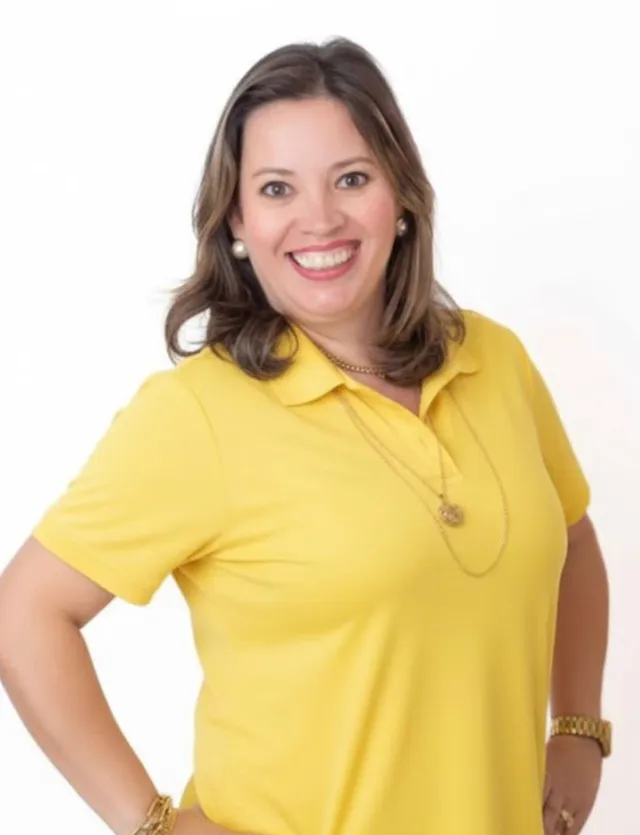
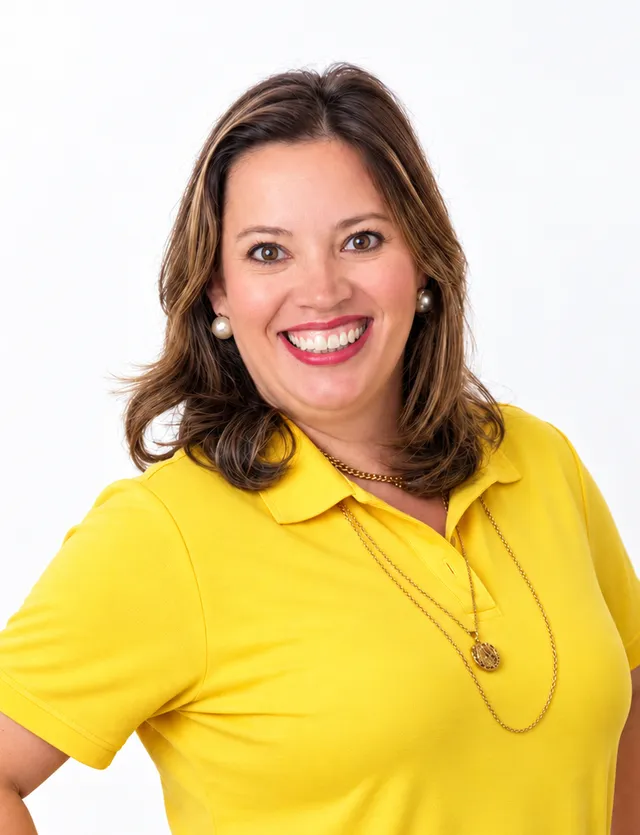
Delina Sampaio: retrato tratado, recortado do busto para cima

diff --git a/src/content/executives.ts b/src/content/executives.ts
@@ -36,7 +36,8 @@ export const sabrinaFerreira: Executive = {
   verificationStatus: 'source-supplied',
 };
 
-/** Fotos: assets/executives/Delina-sampaio (880 × 1223, recortada para 800 × 1044). */
+/** Foto: assets/executives/Delina-sampaio, retrato tratado por Nil em 26/10 (1064 × 1478),
+ * recortado do busto para cima (780 × 1018). */
 export const delinaSampaio: Executive = {
   id: 'delina-sampaio',
   firstName: 'Delina',
@@ -45,8 +46,8 @@ export const delinaSampaio: Executive = {
   photo: '/media/executives/delina-sampaio.jpg',
   photoSource: 'bundled',
   photoAlt: 'Retrato de Delina Sampaio, Executiva Comercial da CRED MHS',
-  photoWidth: 800,
-  photoHeight: 1044,
+  photoWidth: 780,
+  photoHeight: 1018,
   email: 'comercial.rio@credmhs.com.br',
   phoneDisplay: '+55 (21) 99943-5149',
   phoneE164: '+5521999435149',

diff --git a/qa/RELATORIO.md b/qa/RELATORIO.md
@@ -97,7 +97,7 @@ trilha 1440 (etapa 2, pausada, final, reduced motion), 768, 390 (etapa 3, reduce
 
 ## Rodada 2026-10-26 — Delina Sampaio e Milena Andrade (perfis locais)
 
-**Implementado:** perfis locais `delina-sampaio` e `milena-andrade` em `src/content/executives.ts` (dados enviados por Nil em 26/10; cargo “Executiva Comercial”; WhatsApp liberado para as duas com o número do telefone). Retratos derivados em `public/media/executives/` (`-640` e tamanho original, avif/webp/jpg); Delina recortada de 880×1223 para 800×1044. `portraitSources` (shared.tsx) passou a valer para qualquer perfil local, usando `photoWidth`.
+**Implementado:** perfis locais `delina-sampaio` e `milena-andrade` em `src/content/executives.ts` (dados enviados por Nil em 26/10; cargo “Executiva Comercial”; WhatsApp liberado para as duas com o número do telefone). Retratos derivados em `public/media/executives/` (`-640` e tamanho original, avif/webp/jpg); Delina: retrato substituído no mesmo dia pela versão tratada por Nil (1064×1478), recortada do busto para cima (780×1018). `portraitSources` (shared.tsx) passou a valer para qualquer perfil local, usando `photoWidth`.
 
 **Testado:** Playwright em 1440 e 390 px com `?executivo=delina-sampaio` e `?executivo=milena-andrade`: abertura com foto, nome e cargo; contato com `tel:`, `mailto:` e `wa.me` corretos; sem erro de página. `tsc` ok; `__checks__.ts` 18/18.
 
